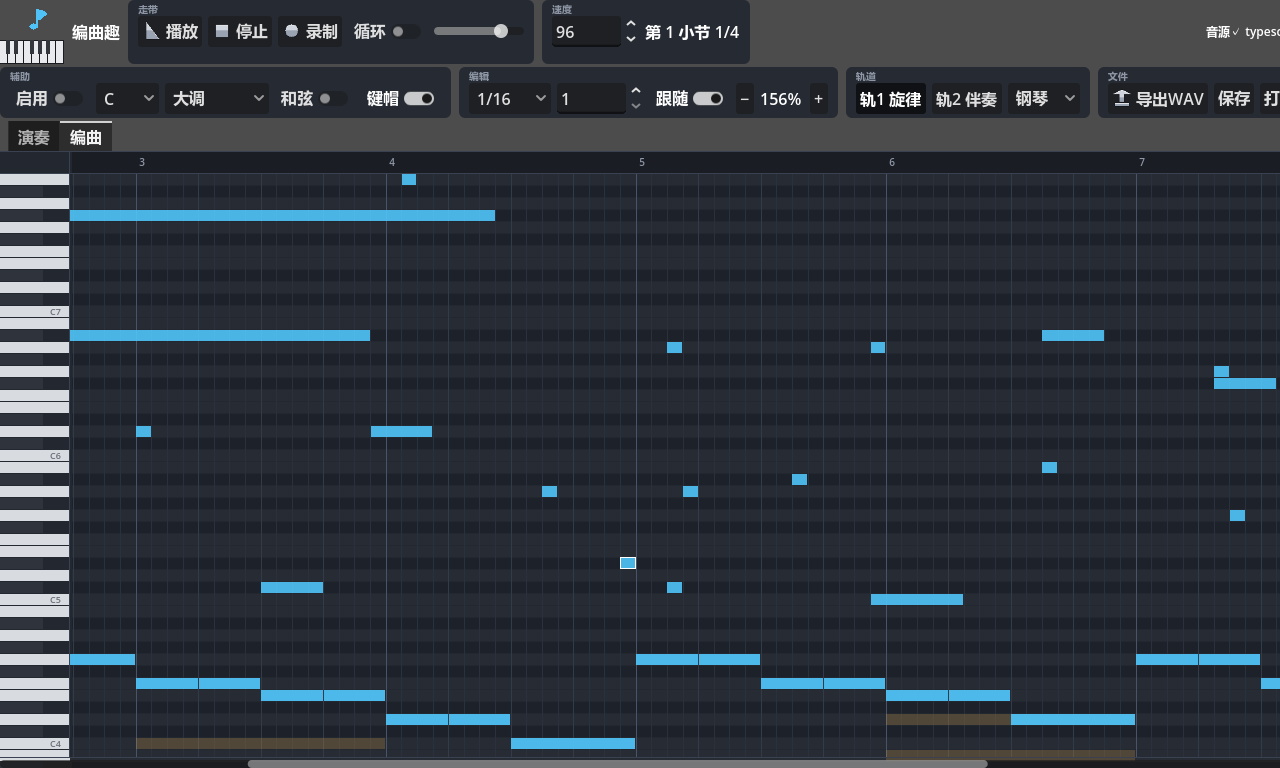
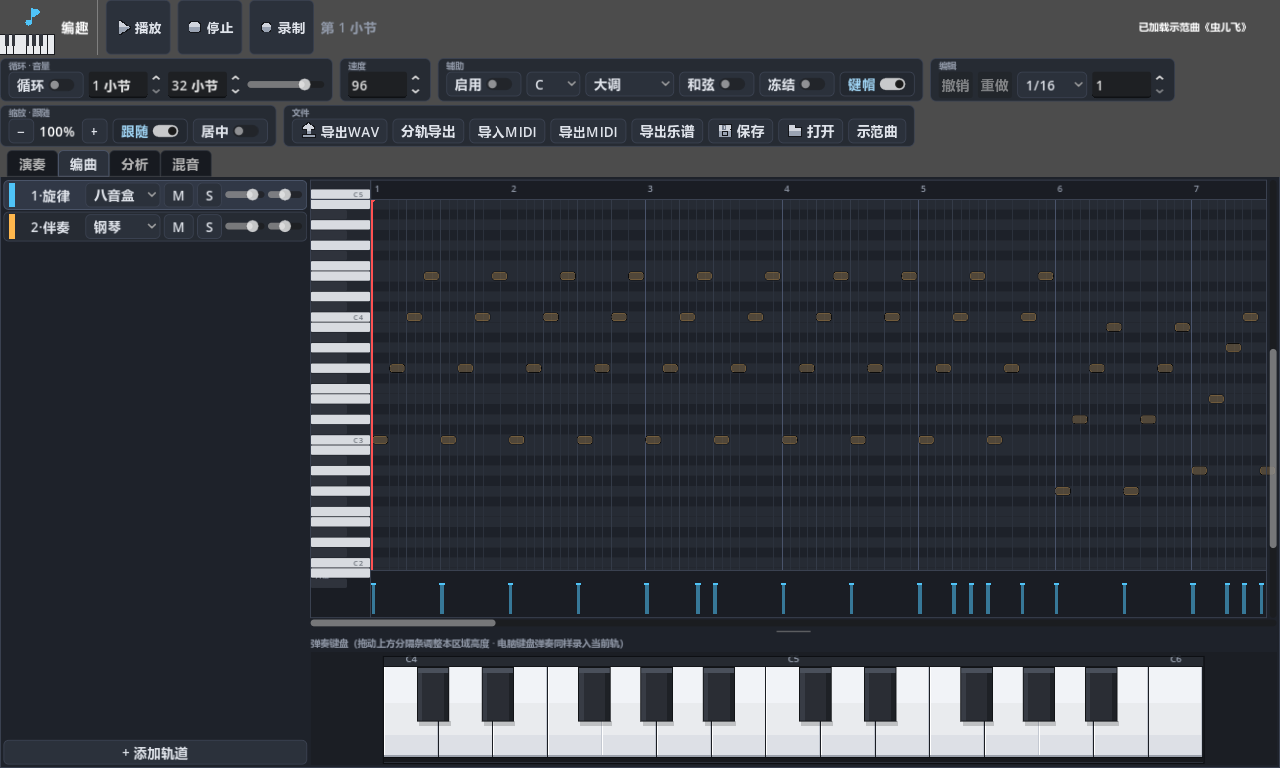
v1.0.3：修复轨道列表行空壳（v0.2.0 起缺 row.add_child）+ README/截图文档更新 + 整除告警清理

diff --git a/README.en.md b/README.en.md
@@ -7,7 +7,7 @@
 [![License: MIT](https://img.shields.io/badge/License-MIT-yellow.svg)](LICENSE)
 ![Godot](https://img.shields.io/badge/Godot-4.7-478cbf)
 ![Platform](https://img.shields.io/badge/Platform-Windows-blue)
-![Version](https://img.shields.io/badge/Version-1.0.2-4fc3f7)
+![Version](https://img.shields.io/badge/Version-1.0.3-4fc3f7)
 
 [中文](README.md) · [English](README.en.md)
 
@@ -21,7 +21,7 @@ Out of scope by design: vocals/lyrics, MIDI hardware, VST/AU hosting, cloud coll
 
 ## Highlights
 
-- **Play mode** — on-screen piano mapped to two keyboard rows (keycaps printed on the keys), scale-highlighting so out-of-key notes dim, one-key chord mode, **freeze mode** (latch notes one by one so 3+ notes ring together — beats the 2-3-key hardware rollover limit), rising "note echo" animation
+- **Play mode** — on-screen piano mapped to two keyboard rows (keycaps printed on the keys), scale-highlighting so out-of-key notes dim, switch tracks & instrument timbres right from the play page (instant preview on switch), one-key chord mode, **freeze mode** (latch notes one by one so 3+ notes ring together — beats the 2-3-key hardware rollover limit), rising "note echo" animation
 - **Arrange mode** — up to **16 tracks** with a track list (instrument / mute / solo / volume / pan), piano roll with multi-select & box select, batch quantize/transpose/velocity, velocity lane, clipboard, ghost notes, and a **16-step × 6-voice drum step sequencer**
 - **Audio engine** — per-track buses routed through Music/Drum group buses into a Master bus (EQ10 + Limiter), per-track reverb/delay sends, audio-clock-anchored transport with look-ahead scheduling
 - **Soundset** — 8 built-in synthesized instruments with 3 velocity layers each (Piano / Chiptune / Pad / Bass / E-Piano / Music Box / Drum Kit…), synthesized at startup, cached to disk, zero realtime DSP
@@ -34,7 +34,7 @@ Out of scope by design: vocals/lyrics, MIDI hardware, VST/AU hosting, cloud coll
 
 1. Install [Godot 4.7+](https://godotengine.org/download) (standard build, no .NET needed)
 2. Clone this repo and open `project.godot` in Godot
-3. Press F5 — a *Twinkle Twinkle Little Star* demo project loads on first run
+3. Press F5 — a full *Chong Er Fei* (Fireflies Fly) demo arrangement loads on first run (32 bars: music-box melody + piano arpeggios, intro / verse ×2 / chorus)
 
 **Keys**: `Z`-row = lower octave, `Q`-row = upper octave, `↑`/`↓` shift octaves, `Space` = play/stop, `=`/`-` = zoom the piano roll, `Ctrl+Z`/`Ctrl+Y` = undo/redo. Mouse plays too (click keys, drag to glissando).
 
@@ -44,7 +44,7 @@ Out of scope by design: vocals/lyrics, MIDI hardware, VST/AU hosting, cloud coll
 
 Full design document (requirements, audio engine, language choices, per-version iteration records): [DESIGN.md](DESIGN.md) · 中文说明：[README.md](README.md)
 
-**Tests**: six headless smoke suites in `tests/` — run with `godot --headless --path . res://tests/smoke_v100.tscn`
+**Tests**: five headless smoke suites in `tests/` — run with `godot --headless --path . res://tests/smoke_v100.tscn`
 
 ## Roadmap
 
@@ -55,6 +55,7 @@ Full design document (requirements, audio engine, language choices, per-version 
 - [x] v0.3.0 chord detection / section analysis / harmony suggestions
 - [x] v0.3.1 track presets / custom GM mapping
 - [x] v1.0.0 mixer workspace / instrument plugin system / SFZ support
+- [x] v1.0.1–v1.0.3 freeze (latch) mode / play-page instrument switcher / toolbar rework / full *Chong Er Fei* demo / hi-res pixel icons
 - [ ] v1.x realtime synth engine (GDExtension) · SF2 sample banks
 
 ## License

diff --git a/README.md b/README.md
@@ -38,6 +38,7 @@
 - **调性辅助**：选调 + 音阶后，调外键自动变暗，新手不易弹错
 - **和弦模式**：按一个键自动补齐调内三和弦
 - **冻结模式**：破解键盘"最多同按 2-3 键"的硬件限制——依次按下的音逐个冻结保持，每按一个新键，已冻结的音**一起再响**，等效多键同奏；再按已冻结的键解除该音，关掉开关解除全部
+- **音色即点即换**：「音色」组直接切换轨道与音色，切换即弹一个音试听（编曲页轨道列表同步联动）
 - **回声条动效**：弹过的音在键盘上方化作升起的色块，按住越长块越高
 - **键盘大小随意调**：键宽滑杆（60%–160%）/ 1–4 八度跨度 / 键盘上 Ctrl+滚轮缩放
 
@@ -85,7 +86,7 @@
 
 1. 安装 [Godot 4.7+](https://godotengine.org/download)（标准版即可，无需 .NET）
 2. 克隆本仓库，用 Godot 打开 `project.godot`
-3. 按 F5 运行 —— 首次启动自带《虫儿飞》示范曲（双轨：八音盒旋律 + 钢琴和弦）
+3. 按 F5 运行 —— 首次启动自带《虫儿飞》完整示范曲（32 小节：八音盒旋律 + 钢琴分解和弦，前奏-主歌×2-副歌全曲式）
 
 ### 弹奏键位
 
@@ -160,7 +161,7 @@
 
 - **性能**：预渲染采样而非实时 DSP，播放期零热循环；卷帘/键盘/回声条/分析图均为单 Control 矢量绘制 + 脏刷新 + 视口裁剪
 - **存储**：`.bsong` zstd 二进制（千音符 < 10KB）；采样磁盘缓存（力度分层）；无外部音频文件
-- **测试**：`tests/smoke_v*.tscn` 六套无头回归（模型 / 走带 / 音频 / 分析 / 插件 / UI 接线），`godot --headless --path . res://tests/smoke_v100.tscn` 即跑
+- **测试**：`tests/smoke_v*.tscn` 五套无头回归（模型 / 走带 / 音频 / 分析 / 插件 / UI 接线），`godot --headless --path . res://tests/smoke_v100.tscn` 即跑
 - 完整设计文档（需求分析 / 音频引擎 / 语言选型 / 版本迭代记录）见 [DESIGN.md](DESIGN.md)
 
 ## 项目结构
@@ -173,7 +174,7 @@
 │   ├── sfz_loader.gd      # SFZ 采样音色加载
 │   ├── track_presets.gd   # 轨道预设存取
 │   └── ui/                # 主界面 / 轨道列表 / 卷帘 / 键盘 / 鼓机 / 分析 / 混音台
-├── tests/                 # 六套无头回归测试
+├── tests/                 # 五套无头回归测试
 ├── aseprite/              # Aseprite 像素画源文件
 ├── assets/sprites/        # 导出的 PNG（logo/图标集/应用图标）
 └── docs/screenshots/      # 界面截图

diff --git a/DESIGN.md b/DESIGN.md
@@ -401,3 +401,5 @@ v1.0.0 引入混音台时误删 `tabs.add_child(ana)`，导致「分析」标签
 **自适应**：轨道列表行区包进 `ScrollContainer`（竖向滚动、横向禁用=随容器宽），轨道多/窗口矮不再裁切；演奏页提示文案补充音色组说明。
 
 **测试**：五个 smoke 套件全过。断言同步：v014（首音 76、音符 352、MusicXML 改查 2 声部×32 小节=64 个 measure——伴奏改琶音后无同时发声组，旧 `<chord/>`=24 断言失效）；v020（撤销音色 钢琴→八音盒）；v030（32 小节断言按实测重写、段落覆盖 32）。
+
+**【发布当日追加】修复轨道列表行空壳（v0.2.0 起的隐性缺陷）**：重拍 README 截图时发现编曲页轨道列表整列空白。排查（无头实例化 + 控件树探针）定位为 `_build_row` 构建了行内 HBox 并填满控件，但**从未执行 `row.add_child(h)`**——`git log -S` 证实该调用在 v0.2.0（d8a990c）创建 TrackList 时就不存在，行自始至终只是 6px 高的样式盒空壳（此前极矮、贴在面板顶部，未被察觉；本次加 ScrollContainer 后彻底不可见才暴露）。修复：补上挂载 + 行高显式定值 34px（ScrollContainer 内最小高度传播不可靠，交给显式约束）。附带清理 `2 / parts.size()` 整除告警（改为条件分支）。修复已并入 v1.0.3（发布仅数分钟、零下载，按 v1.0.1→v1.0.2 先例同标签替换安装包）。
